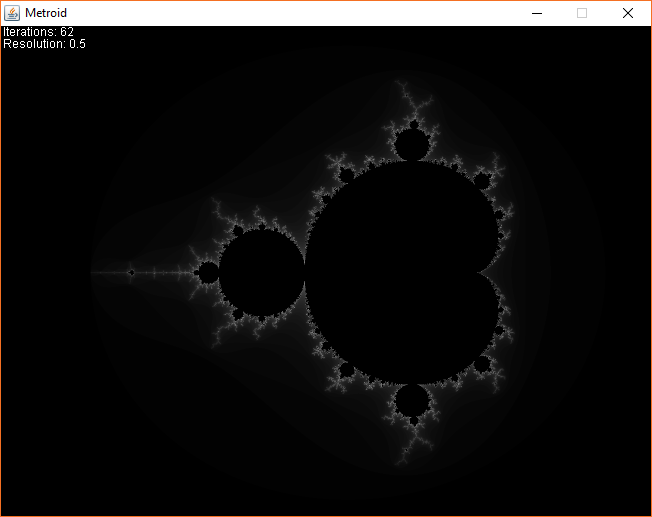
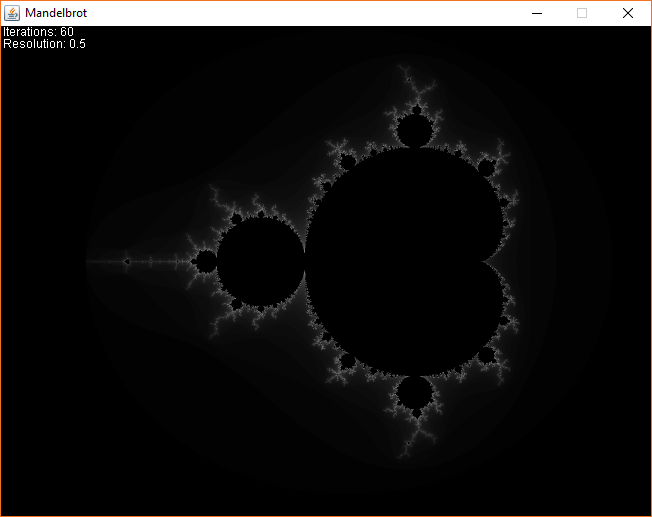
Fix title

Changed region(s): [[0.184, 0.1547, 0.7975, 0.5571], [0.3374, 0.4952, 0.7975, 0.8665], [0.0613, 0.0, 0.1534, 0.0309]]

diff --git a/src/org/pikaju/mandelbrot/Mandelbrot.java b/src/org/pikaju/mandelbrot/Mandelbrot.java
@@ -76,7 +76,7 @@ public class Mandelbrot extends Canvas {
 
 	public static void main(String[] args) {
 		i = new Mandelbrot();
-		JFrame frame = new JFrame("Metroid");
+		JFrame frame = new JFrame("Mandelbrot");
 		frame.add(i);
 		frame.pack();
 		frame.setResizable(false);
